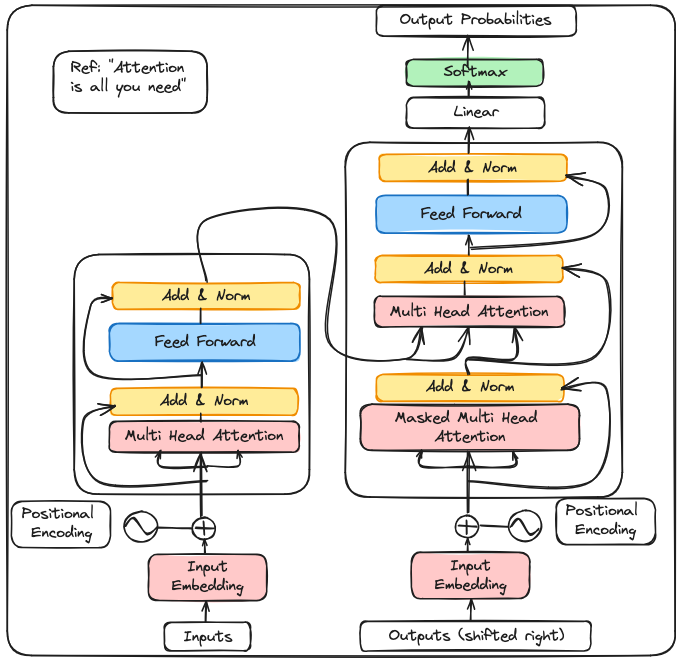
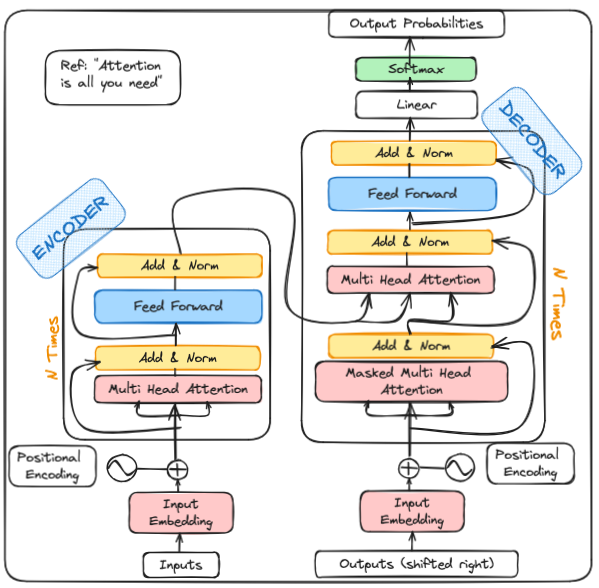
Updated

diff --git a/Transformer/Sel_Attention_and_Transformers.tex b/Transformer/Sel_Attention_and_Transformers.tex
@@ -1,6 +1,10 @@
 \documentclass{article}
 \usepackage[utf8]{inputenc}
-\usepackage{graphicx, amsmath, amssymb}
+\usepackage{graphicx, amsmath, amssymb, tikz}
+\usepackage{hhline}
+\usepackage[table]{xcolor}
+\usepackage[most]{tcolorbox}
+\usepackage{lipsum}
 \usepackage{hyperref}
 \graphicspath{ {./images/} }
 \usepackage[dvipsnames]{xcolor}
@@ -22,14 +26,101 @@ This is a test. That is an abstract.  T This is a test. That is an abstract.
 \keywords{Postional Encoding, Rotary Positional Embeddings, Positional Embeddings, Context Vectors}
 %*********************************************************************************************
 \section{Motivation for Transformers}
-\begin{itemize}
-    \item Sequential computation prevents parallelization
+\begin{tcbraster}[raster columns=2,raster equal height,nobeforeafter,raster column skip=0.5cm]
+  \begin{tcolorbox}[title=Challenges with RNNs]
+    \begin{itemize}
+    \item Gradient vanishing and explosion
+    \item Large \# of training steps
+    \item Sequential computation/Recurrenece prevents parallel computation
     \item Despite GRUs and LSTMs, RNN still need attention mechanism to deal with long-range dependencies - path length for co-dependent computation between states grows with sequence length
-    \item But if attention gives us access to any state, maybe we don't need the RNN?!
 \end{itemize}
-
+  \end{tcolorbox}
+  \begin{tcolorbox}[title=Transformer Networks]
+    \begin{itemize}
+    
+    \item No gradient vanishing and explosion
+    \item Fewer training steps
+    \item No recurrence that faciliate parallel computation
+    \item Facilitate Long Range Dependencies
+\end{itemize}
+  \end{tcolorbox}
+\end{tcbraster}
+But if attention gives us access to any state, maybe we don't need the RNN?!
 %*********************************************************************************************    
-\section{Transformers}
+\section{Attention Mechanism}
+%*********************************************************************************************
+%*********************************************************************************************   
+\begin{minipage}{0.5\textwidth}
+\includegraphics[width=5cm, height=3.5cm]{Transformer/Images/Attention1.png}
+\end{minipage}
+\begin{minipage}{0.5\textwidth}
+\begin{itemize}
+    \item Mimics the retrieval of a \textbf{value} $v_i$ for a \textbf{query} $q$ based on a key $k_i$ in database.
+    \item $attention(q,\textbf{k},\textbf{v}) = \sum_i similarity(q,k_i)\times v_i$
+    \item $s_i = f(q,k_i)$
+\end{itemize}
+\end{minipage}
+%************************************************************************************
+%*********************************************************************************************  
+\hrule
+\textbf{Step 1}: \\
+\begin{minipage}{.65\linewidth}
+\begin{equation*}
+  f(q,k_i)=\begin{cases}
+    q^T k_i, & \text{Dot Product}.\\
+    \frac{q^T k_i}{\sqrt{d}}, & \text{Scaled Dot Product}.\\
+    q^T W k_i, & \text{General Dot Product}. \\
+    w_q^T q + W_k^T k_i , & \text{Additive Similarity}
+  \end{cases}
+\end{equation*}
+\end{minipage}
+\begin{minipage}{.5\linewidth}
+\includegraphics[width=4cm, height=3.5cm]{Transformer/Images/Attention2.png}
+\end{minipage}
+%************************************************************************************
+$s$ corresponds to the similarity measure. $d$ is the dimensionality of each key. $W$: Think of it as if we are transforming our queries to be in the same space as the keys. Kernel methods also measure similarity. They do this by essentially mapping two vectors into a new space through some non-linear function. We could also have here some form of kernel similarity.  \\
+\hrule
+\textbf{Step 2}:\\
+%*********************************************************************************************   
+\begin{minipage}{0.5\textwidth}
+\includegraphics[width=4cm, height=3.5cm]{Transformer/Images/Attention3.png}
+
+\end{minipage}
+\begin{minipage}{0.5\textwidth}
+\begin{itemize}
+    \item The second step/layer is to compute the weights $a_1,a_2,a_3,a_4$.
+    \item $a_i = \frac{exp(s_i)}{\sum_j exp(s_j}$. 
+    \item This is a fully connected network but not in the classical sense. 
+\end{itemize}
+\end{minipage}
+%************************************************************************************
+\hrule 
+\textbf{Step 3}:\\
+%*********************************************************************************************   
+\begin{minipage}{0.5\textwidth}
+
+\begin{itemize}
+    \item Attention Value $= \sum_i a_i * v_i$.
+    \item $a_i = \frac{exp(s_i)}{\sum_j exp(s_j}$. 
+    \item This is a fully connected network but not in the classical sense. 
+\end{itemize}
+\end{minipage}
+\begin{minipage}{0.5\textwidth}
+\includegraphics[width=6cm, height=5cm]{Transformer/Images/Attention4.png}
+\end{minipage}
+%************************************************************************************
+\begin{itemize}
+    \item Neural Architecture
+    \item Example: machine translation
+    \begin{itemize}
+        \item Query: $s_i$ (hidden vector for $i^{th}$ output word )
+        \item Key: $h_j$ (hidden vector for $j^{th}$ input word)
+        \item Value: $h_j$ (hidden vector for $j^{th}$ input word)
+    \end{itemize}
+\end{itemize}
+  
+%*********************************************************************************************    
+\section{Transformer Network}
 %*********************************************************************************************   
 \begin{minipage}{0.5\textwidth}
 \includegraphics[width=6cm, height=8cm]{Transformer/Images/Transformers1.png}
@@ -38,6 +129,7 @@ This is a test. That is an abstract.  T This is a test. That is an abstract.
 \begin{itemize}
     \item The work "Attention is All you Need" (Vaswani et al, NeurIPS 2017) first made it possible to do Seq2Seq modelling without RNNs)
     \item Proposed transformer model, entirely built on self-attention mechanism without using sequence-aligned recurrent architectures
+    \item Encoder-decoder based on attention (no recurrence)
     \item Key components:
     \begin{itemize}
         \item Self-Attention
@@ -47,6 +139,33 @@ This is a test. That is an abstract.  T This is a test. That is an abstract.
     \end{itemize}
 \end{itemize}
 \end{minipage}
+Recurrence means that the optimization takes longer for 2 reasons: -
+\begin{itemize}
+    \item \# of iterations, \# of steps in gradient descent will be higher
+    \item We will have several operations that are going to be sequential \& then we cannot parallelize them easily
+\end{itemize}
+Transformer networks have 2 parts: Encoders and Decoders. In Machine translation, the encoder is used to encode the initial sentence and the decoder is used to produce the translated sentence. 
+%************************************************************************************
+\subsubsection{Encoder}
+%************************************************************************************
+The encoder processes an entire sentence in parallel as opposed to RNN which processes one word at a time in the sentence. Input in TIV is an entire sequence of word which are embedded and then positional encoding is done.
+\begin{minipage}{0.6\textwidth}
+\input{Transformer/Images/DiaEncoder}
+\end{minipage}
+\begin{minipage}{0.5\textwidth}
+The important part of the transformer network is the encoder block. It consists of two sub-parts:
+\begin{itemize}
+    \item Multi-head Attention
+    \item Feed Forward Neural Network
+\end{itemize}
+\end{minipage}
+The Multi Head Attention is where all the good stuff happens. A vector which consists of sub-vectors of all the words that we have in our sentence is fed in.  Then the Multi Head Attention is going to compute the attention between every position and every other position. A vector which consists of subvectors of all the words we have in our sentence is fed in. Then the Multi Head Attention is going to compute the attention between every position and every other position. \\
+We have vectors 
+
+%************************************************************************************
+\subsubsection{Decoder}
+%************************************************************************************
+D
 %************************************************************************************
 \subsubsection{Transformers in a Nutshell}
 \begin{minipage}{0.5\textwidth}
@@ -130,16 +249,27 @@ This is a test. That is an abstract.  T This is a test. That is an abstract.
 \section{Multi-Head Attention}
 %************************************************************************************
 %************************************************************************************
+\begin{itemize}
+    \item Multihead attention: compute multiple attentions per query with different weights
+    \item $multihead(Q,K,V) = W^0 concat(head_1, head_2, \cdot , head_h)$ 
+    \item $ head_i = attention(W_i^QQ, W_i^K K, W_i^V V )$
+    \item $attention(Q,K,V) = softmax(\frac{Q^T K}{\sqrt{d_k}} )V$ 
+\end{itemize}
+
+
+
+%************************************************************************************
 \begin{minipage}{0.5\textwidth}
 \includegraphics[width=6cm, height=8cm]{Transformer/Images/MultiHeadAttention1.png}
 \end{minipage}
 \begin{minipage}{0.5\textwidth}
 \begin{itemize}
-    \item Improves performance of teh attention layer in two ways:
+    \item Improves performance of the attention layer in two ways:
     \begin{itemize}
         \item Expands model's ability to focus on different positions. In example above, $z_1$ contains a bit of every other encoding, but dominated by actual word itself.
         \item Gives attention layer multiple "representation subspaces"; we have not one but multiple sets of Query/Key?value weight matrices; after training, each set is used to project input embeddings into different representation subspaces
     \end{itemize}
+    \item $h \rightarrow $ \# of head 
 \end{itemize}
 \end{minipage}
 %************************************************************************************
@@ -155,14 +285,35 @@ This is a test. That is an abstract.  T This is a test. That is an abstract.
     \item Concatenate the resulting \textcolor{pink}{Z} matrices, then multiply with weight matrix \textcolor{pink}{$W^0$} to produce the output of the layer
 \end{itemize}
 \end{minipage}
-*In all encoders other than #0, we don't need embedding. We start directly with the output of the encoder right below this one.
+$\ast$ In all encoders other than 0, we don't need embedding. We start directly with the output of the encoder right below this one.
+%************************************************************************************
+\subsection{Masked Multi-head Attention}
+\begin{itemize}
+    \item Masked multi-head attention: multi-head where some values are masked (i.e., probabilities of masked values are nullified to prevent them from being selected)
+    \item When decoding, an output value should only depend on previous outputs (not future outputs). Hence we mask future outputs.
+    \item $attention(Q,K,V) = softmax(\frac{Q^T K}{\sqrt{d_k}})V$
+    \item $maskedAttention(Q,K,V) = softmax(\frac{Q^T K + M}{\sqrt{d_k}})$
+    \item where $M$ is a mask matrix of $0$'s and $-\infty$'s
+\end{itemize}
+%************************************************************************************
+\subsection{Other Layers}
+\begin{itemize}
+    \item Layer Normalization
+    \begin{itemize}
+        \item Normalize value in each layer to have $0$ mean and $1$ variance
+        \item For each hidden unit $h_i$ compute $h_i \leftarrow  \frac{g}{\sigma} (h_i - \mu)$ where $g$ is a variable, $\mu = \frac{1}{H} \sum_{i=1}^H h_i$ and $\sigma = \sqrt{\frac{1}{H} \sum_{i=1}^H (h_i - \mu)^2 }$
+        \item This reduces "covariate shift" (i.e., gradient dependencies between each layer) and therefore fewer training iterations are needed
+    \end{itemize}
+    \item Positional Embeddings
+\end{itemize}
 %************************************************************************************
 %************************************************************************************
 \section{Positional Encoding}
 %************************************************************************************
 %************************************************************************************
 \begin{itemize}
-    \item Unlike RNN and CNNN encoders, attention encoder outputs do not depend on order of inputs (Why?)
+    \item Embedding to distinguish each position
+    \item Unlike RNN and CNN encoders, attention encoder outputs do not depend on order of inputs (Why?)
     \item But order of sequence conveys important information for machine translation tasks and language modeling
     \item The idea: Add positional information of input token in the sequence into input embedding vectors
 \end{itemize}
@@ -172,7 +323,29 @@ This is a test. That is an abstract.  T This is a test. That is an abstract.
 \end{align*}
 \begin{itemize}
     \item Final input embeddings are concatenation of learnable embedding and positional encoding
+    \item position is scalar. Position embedding is vector.
 \end{itemize}
+%************************************************************************************
+%************************************************************************************
+\section{Conclusion}
+%************************************************************************************
+%************************************************************************************
+\begin{itemize}
+    \item Attention reduces sequential operations and maximum path length, which facilitates long range dependencies
+\end{itemize}
+\begin{tabular}{ |p{4cm}||p{2cm}|p{2cm}|p{3cm}|  }
+ \hline
+ \multicolumn{4}{|c|}{Comparison} \\
+ \hline
+ Layer Type& Complexity per Layer &Sequential Operations & Maximum Path Length\\
+ \hline
+ Self-Attention   & $O(n^2 \cdot d)$     & $ O(1) $ &   $ O(1) $\\
+ Recurrent &   $O(n \cdot d^2)$  & $ O(n) $   & $ O(n) $\\
+ Convolutional & $O(k \cdot n \cdot d^2)$  & $ O(1) $ &  $ O( log_k(n) ) $\\
+ Self-Attention(restricted)    & $O(r \cdot n \cdot d^2)$  & $ O(1) $ &   $ O(n/r) $\\
+ \hline
+\end{tabular}
+\end{document}
 %************************************************************************************
 %************************************************************************************
 \section{References}
@@ -182,5 +355,6 @@ This is a test. That is an abstract.  T This is a test. That is an abstract.
     \item \href{https://courses.cs.washington.edu/courses/cse543/22sp/schedule/lecture15_transformer.pdf}{CS Washington}
     \item \href{https://www.youtube.com/watch?v=5V9gZcAd6cE}{Positional encodings in transformers (NLP817 11.5)}
     \item \href{https://www.cs.ubc.ca/~schmidtm/Courses/440-W22/L20.pdf}{CPSC 440}
+    \item \href{https://www.cs.toronto.edu/~rgrosse/courses/csc421_2019/slides/lec16.pdf}{CS Toronto CSC 421}
 \end{itemize}
 \end{document}

diff --git a/Transformer/Images/DiaEncoder.tex b/Transformer/Images/DiaEncoder.tex
@@ -1,18 +1,21 @@
+% Import required TikZ libraries
 \documentclass{article}
 \usepackage{tikz}
-\usetikzlibrary{shapes, arrows, positioning, fit, backgrounds}
+\usetikzlibrary{shapes,shadows, arrows, positioning, fit, backgrounds}
 % \begin{document}
+
+
 
 % Define block styles
 \tikzstyle{decision} = [diamond, draw, fill=yellow!40, 
     text width=4.5em, text badly centered, node distance=1.75cm, inner sep=0pt]
 \tikzstyle{decisiong} = [diamond, draw, fill=blue!40, 
     text width=4.5em, text badly centered, node distance=1.75cm, inner sep=0pt]
-\tikzstyle{block} = [rectangle, node distance=1.75cm, minimum width=1cm, minimum height=0.5cm, draw, fill=yellow!20, 
+\tikzstyle{block} = [rectangle, node distance=1.75cm, minimum width=1cm, minimum height=0.5cm, draw, fill=yellow!10, 
     text width=20em, text centered, rounded corners, minimum height=1.5em]
-\tikzstyle{blockg} = [rectangle, minimum width=0.5cm, minimum height=0.5cm, draw, fill=blue!50, 
+\tikzstyle{blockg} = [rectangle, minimum width=0.5cm, minimum height=0.5cm, draw, fill=blue!10, 
     text width=15em, text centered, rounded corners, minimum height=1.5em]
-\tikzstyle{blockh} = [rectangle, minimum width=0.5cm, minimum height=0.5cm, draw, fill=green!50, 
+\tikzstyle{blockh} = [rectangle, minimum width=0.5cm, minimum height=0.5cm, draw, fill=green!10, 
     text width=15em, text centered, rounded corners, minimum height=1.5em]
 \tikzstyle{blockwhite} = [rectangle, minimum width=0.5cm, minimum height=0.5cm, draw, fill=white!50, 
     text width=15em, text centered, rounded corners, minimum height=1.5em]
@@ -32,19 +35,19 @@
     % Place nodes
     \node [cloud] (exit) {};
 
-    \node [blockh, below of=exit] (ln1) {Layer Norm};
+    \node [blockh, below of=exit] (ln1) {Add \& Norm};
     \node [blockg, below of=ln1] (ff) {\textbf{Feed-forward}};
     \node [cloud, below of=ff] (mid) {};
-    \node [blockh, below of=mid] (ln2) {Layer Norm};
+    \node [blockh, below of=mid] (ln2) {Add \& Norm};
     
-    \node [blockg, below of=ln2] (sa) {\textbf{Self-Attention} };
+    \node [blockg, below of=ln2] (sa) {\textbf{Multi-head Attention} };
     \node [cloud, below of=sa] (init) {};
     \node [blockwhite, below of=init] (input) {Encoder };
 
  
 
     \begin{scope}[on background layer]
-    \node[draw, fill=blue!20, fit=(sa) (ln1), inner xsep=5mm]{};
+    \node[draw, fill=blue!0, fit=(sa) (ln1), inner xsep=5mm]{};
     \end{scope}
     % Draw edges
     \path [line] (ln1) -- (exit);
